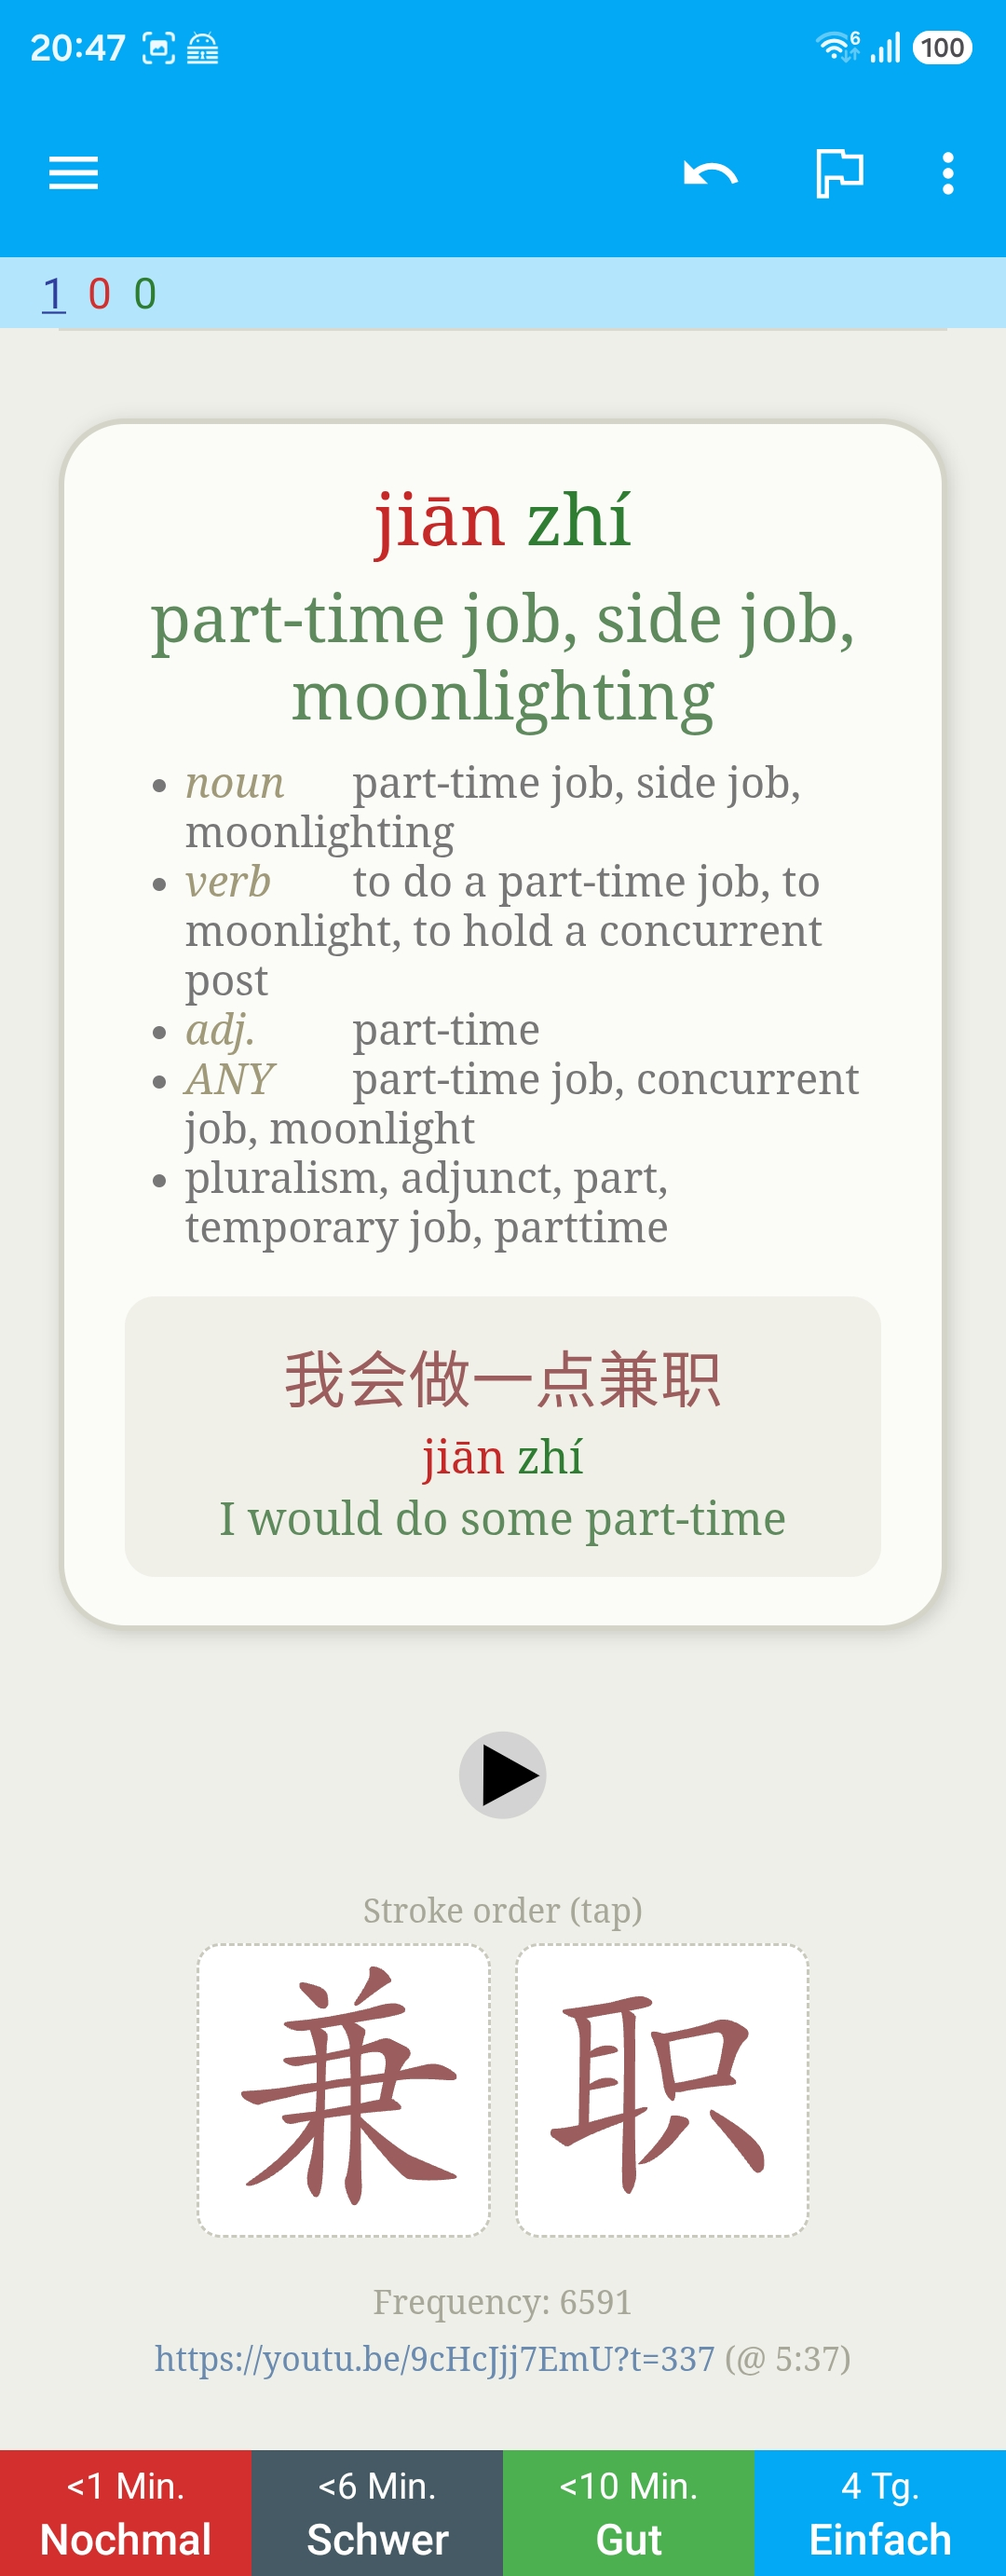
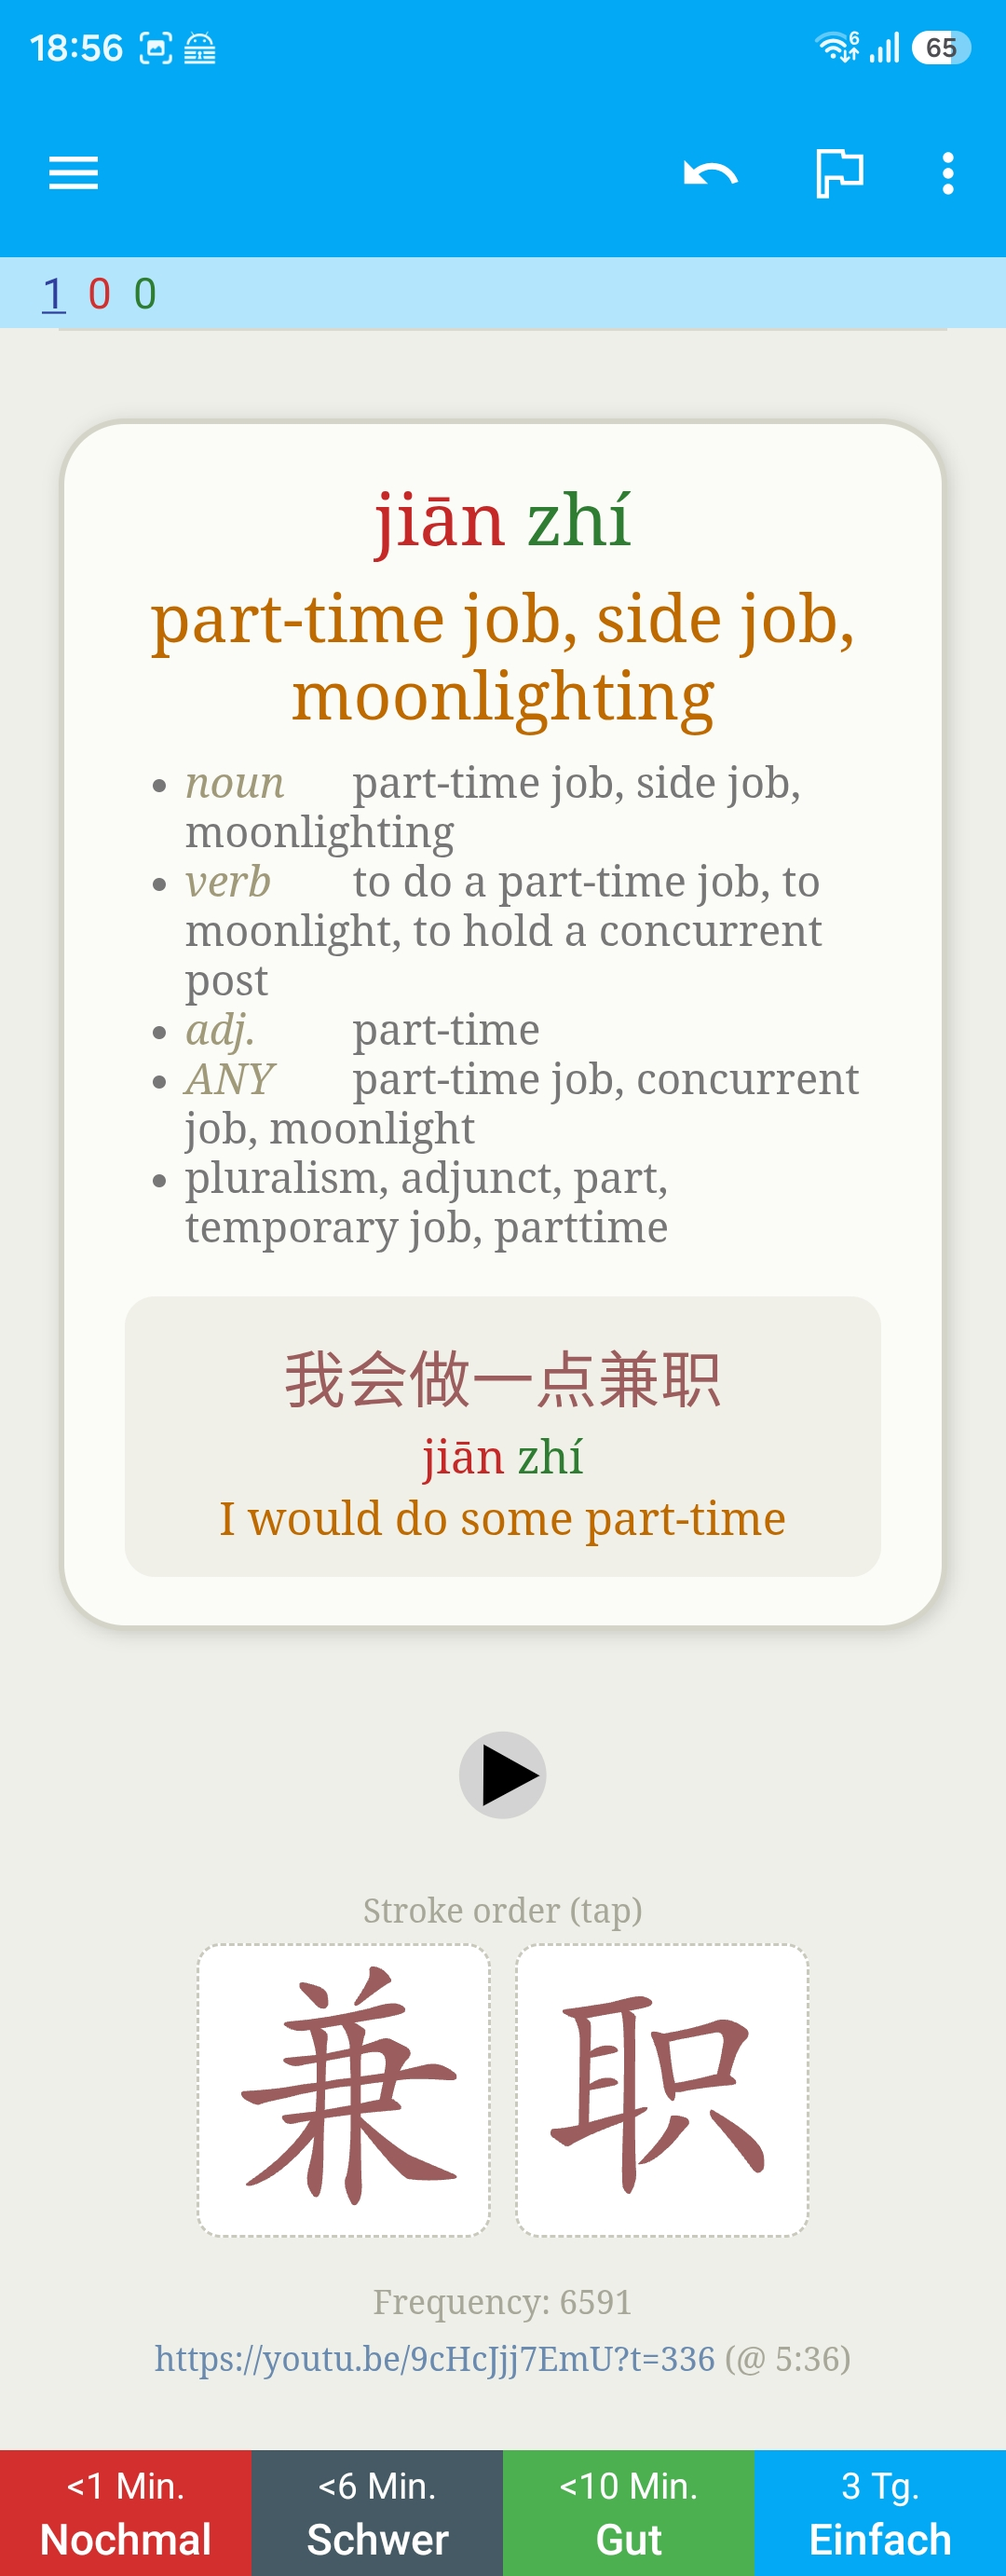
Fix zero-width sentence split; distinct translation color (v1.1.1) (#6)
* Fix zero-width spaces in sentence split; distinct translation color (v1.1.1)

Two user-facing fixes bundled as a patch release:

- Sentence field split: Language Reactor injects zero-width characters
  (U+200B..U+200F, U+2060, U+FEFF) between syllables. They do not match
  \s, so a Pinyin syllable picked up an invisible prefix, failed the
  Pinyin check, and cut the Pinyin/translation split short - spilling the
  rest of the Pinyin plus the translation into SentencePinyin. New
  stripInvisible() removes these characters before tokenization, wired
  into keepHanzi/keepPinyin/splitPinyinTranslation/cleanTranslation and
  the extraction's text normalizer. Covered by two new unit tests.

- Card styling: the translation/meaning color was green, too close to the
  Pinyin tone-2 green (a worldwide-standard tone scheme). Changed to amber
  (#bf6a00 light / #e0a35a dark) for .bedeutung, .bedeutung-prompt and
  .satz-trans, clearly distinct in both light and dark mode.

Also refreshes the documentation screenshots to the new amber styling.

* Keep U+FEFF for \s normalization instead of deleting it

Address Copilot review: U+FEFF (BOM / zero-width no-break space) already
matches JavaScript's \s. stripInvisible() deleted it before the \s+
normalization, which could merge tokens that previously split on it
(e.g. "shìIch" -> "shìIch"). Remove U+FEFF from stripInvisible's
delete set so the existing \s+ normalization turns it into a space; the
[…]

diff --git a/src/lib/sanitize.ts b/src/lib/sanitize.ts
@@ -2,14 +2,29 @@
 // in die Hanzi-/Uebersetzungszeile mischt. Bewusst DOM-frei und ohne Seiteneffekte,
 // damit sie als Unit-Tests pruefbar sind (siehe sanitize.test.ts).
 
+/**
+ * Entfernt unsichtbare Null-Breite-/Steuerzeichen, die LR zwischen die Silben
+ * mischt (U+200B..U+200F Zero-Width/Richtungsmarken, U+2060 Word Joiner). Diese
+ * matchen `\s` NICHT, haengen sich sonst an eine Pinyin-Silbe und zerbrechen die
+ * Tokenisierung (die Silbe gilt dann nicht mehr als Pinyin).
+ *
+ * U+FEFF (BOM/Zero-Width No-Break Space) wird bewusst NICHT geloescht: es ist in
+ * JavaScript bereits Teil von `\s` und wirkt damit als Token-Trenner. Wuerde man
+ * es loeschen, klebten umliegende Tokens zusammen ("sh\u00EC\uFEFFIch" -> "sh\u00ECIch").
+ * Die nachgelagerte `\s+`-Normalisierung macht daraus wie gehabt ein Leerzeichen.
+ */
+export function stripInvisible(s: string): string {
+  return s.replace(/[\u200B-\u200F\u2060]/g, '');
+}
+
 /** Behaelt nur CJK-Ideogramme und CJK-/Vollbreiten-Satzzeichen. */
 export function keepHanzi(s: string): string {
-  return s.replace(/[^㐀-鿿　-〿＀-￯]/g, '').trim();
+  return stripInvisible(s).replace(/[^㐀-鿿　-〿＀-￯]/g, '').trim();
 }
 
 /** Entfernt CJK-Zeichen (laesst Latein/Pinyin/Toene stehen). */
 export function keepPinyin(s: string): string {
-  return s
+  return stripInvisible(s)
     .replace(/[㐀-鿿　-〿＀-￯]/g, '')
     .replace(/\s+/g, ' ')
     .trim();
@@ -36,7 +51,10 @@ export function splitPinyinTranslation(
   line: string,
   hanziCount: number,
 ): { pinyin: string; translation: string } {
-  const cleaned = line.replace(/\s+/g, ' ').trim().replace(/^[㐀-鿿　-〿＀-￯\s]+/u, '');
+  const cleaned = stripInvisible(line)
+    .replace(/\s+/g, ' ')
+    .trim()
+    .replace(/^[㐀-鿿　-〿＀-￯\s]+/u, '');
   const words = cleaned.split(' ').filter(Boolean);
   const cap = hanziCount > 0 ? hanziCount : words.length;
   let n = 0;
@@ -50,7 +68,7 @@ export function splitPinyinTranslation(
 
 /** Schneidet fuehrende CJK und fuehrende Pinyin-Silben (die des Satzes) ab. */
 export function cleanTranslation(raw: string, pinyin: string): string {
-  let t = raw.replace(/\s+/g, ' ').trim();
+  let t = stripInvisible(raw).replace(/\s+/g, ' ').trim();
   t = t.replace(/^[㐀-鿿　-〿＀-￯\s]+/, '');
   const py = new Set(pinyin.split(/\s+/).filter(Boolean));
   if (py.size) {

diff --git a/src/lib/sanitize.test.ts b/src/lib/sanitize.test.ts
@@ -6,7 +6,13 @@ import {
   keepPinyin,
   looksLikePinyin,
   splitPinyinTranslation,
+  stripInvisible,
 } from './sanitize';
+
+// Zero-width space LR mixes between syllables (it does not match \s).
+const ZWSP = String.fromCharCode(0x200b); // U+200B ZERO WIDTH SPACE
+// BOM / zero-width no-break space - this one DOES match \s in JavaScript.
+const BOM = String.fromCharCode(0xfeff); // U+FEFF
 
 describe('keepHanzi', () => {
   it('removes latin/pinyin, keeps only Hanzi', () => {
@@ -76,6 +82,31 @@ describe('splitPinyinTranslation', () => {
     const r = splitPinyinTranslation('wǒ shì Something', 0);
     expect(r.pinyin).toBe('wǒ shì');
     expect(r.translation).toBe('Something');
+  });
+  it('splits correctly when LR glues zero-width spaces onto a syllable', () => {
+    // Regression: U+200B before "zi" used to make the 9th syllable fail the
+    // pinyin check, cutting the split short and spilling pinyin into German.
+    const line = `hái zi yǒu le zì jǐ de hái ${ZWSP}${ZWSP}${ZWSP}${ZWSP}zi de shí hòu Wenn das Kind selbst ein Kind hat`;
+    const r = splitPinyinTranslation(line, 12);
+    expect(r.pinyin).toBe('hái zi yǒu le zì jǐ de hái zi de shí hòu');
+    expect(r.translation).toBe('Wenn das Kind selbst ein Kind hat');
+  });
+  it('treats U+FEFF as a separator, not a character to delete', () => {
+    // Regression: U+FEFF matches \s in JS, so it must stay and be normalized to a
+    // space (keeping tokens apart) rather than be stripped (which would merge them).
+    const r = splitPinyinTranslation(`wǒ shì${BOM}Ich bin ein Neuling.`, 2);
+    expect(r.pinyin).toBe('wǒ shì');
+    expect(r.translation).toBe('Ich bin ein Neuling.');
+  });
+});
+
+describe('stripInvisible', () => {
+  it('removes zero-width characters but keeps normal text', () => {
+    expect(stripInvisible(`hái${ZWSP}${ZWSP}zi`)).toBe('háizi');
+    expect(stripInvisible('hái zi')).toBe('hái zi');
+  });
+  it('does NOT remove U+FEFF (it is whitespace, handled by \\s normalization)', () => {
+    expect(stripInvisible(`shì${BOM}Ich`)).toBe(`shì${BOM}Ich`);
   });
 });
 

diff --git a/src/lib/anki/model.ts b/src/lib/anki/model.ts
@@ -168,10 +168,10 @@ h1, h2, h3, h4, p { font-weight: normal; margin: 0; }
 .pinyin { font-size: 24px; color: #5c5c99; margin: 4px 0; }
 .night_mode .pinyin { color: #a6a6ec; }
 
-.bedeutung { font-size: 22px; color: #5e8a5e; margin: 6px 0; }
-.night_mode .bedeutung { color: #9bd49b; }
-.bedeutung-prompt { font-size: 30px; color: #5e8a5e; margin: 28px 0; }
-.night_mode .bedeutung-prompt { color: #9bd49b; }
+.bedeutung { font-size: 22px; color: #bf6a00; margin: 6px 0; }
+.night_mode .bedeutung { color: #e0a35a; }
+.bedeutung-prompt { font-size: 30px; color: #bf6a00; margin: 28px 0; }
+.night_mode .bedeutung-prompt { color: #e0a35a; }
 
 .hint-line { margin: 12px 0; }
 a.hint { color: #9a9a4d; text-decoration: none; font-size: 20px; }
@@ -232,8 +232,8 @@ a.hint { color: #9a9a4d; text-decoration: none; font-size: 20px; }
 .night_mode .satz-hanzi { color: #e39a9a; }
 .satz-pinyin { font-size: 15px; color: #5c5c99; }
 .night_mode .satz-pinyin { color: #a6a6ec; }
-.satz-trans { font-size: 15px; color: #5e8a5e; margin-top: 3px; }
-.night_mode .satz-trans { color: #9bd49b; }
+.satz-trans { font-size: 15px; color: #bf6a00; margin-top: 3px; }
+.night_mode .satz-trans { color: #e0a35a; }
 
 .frequenz { font-size: 11px; color: #a8a89a; margin-bottom: 6px; }
 

diff --git a/src/lib/extract.ts b/src/lib/extract.ts
@@ -5,12 +5,14 @@ import {
   keepHanzi,
   keepPinyin,
   splitPinyinTranslation,
+  stripInvisible,
 } from './sanitize';
 import type { Meaning, Sentence, VideoSource, VocabCard } from './types';
 
-/** textContent, Mehrfach-Whitespace zu einem Space normalisiert, getrimmt. */
+/** textContent, unsichtbare Zero-Width-Zeichen entfernt, Mehrfach-Whitespace zu
+ *  einem Space normalisiert, getrimmt. */
 function txt(el: Element | null | undefined): string {
-  return (el?.textContent ?? '').replace(/\s+/g, ' ').trim();
+  return stripInvisible(el?.textContent ?? '').replace(/\s+/g, ' ').trim();
 }
 
 /** Nur die direkten Textknoten eines Elements (ohne Kinder), ohne Whitespace. */
@@ -19,7 +21,7 @@ function directText(el: Element): string {
   el.childNodes.forEach((n) => {
     if (n.nodeType === Node.TEXT_NODE) s += n.textContent ?? '';
   });
-  return s.replace(/\s+/g, '').trim();
+  return stripInvisible(s).replace(/\s+/g, '').trim();
 }
 
 /** Hanzi aus einem data-word-key wie "WORD|新手|zh-CN". */

diff --git a/DEVELOPER.md b/DEVELOPER.md
@@ -95,3 +95,18 @@ python tools/make_icon.py public/icon
 ```
 
 WXT picks them up automatically and writes the manifest `icons` entries.
+
+## Releasing
+
+Releases are automated. The only manual step is the version bump, done in a normal PR:
+
+1. In a feature/release branch, bump the version: `npm version <x.y.z> --no-git-tag-version`
+   (this edits `package.json` and `package-lock.json`; do **not** let it create a git tag).
+2. Open a PR and get it merged into `main` (CI must be green; `main` is protected).
+3. On merge, the `Release` workflow (`.github/workflows/release.yml`) reads the version from
+   `package.json`, builds and zips the extension, and - if no release for that version exists yet -
+   creates the GitHub Release `v<x.y.z>` with the `…-chrome.zip` asset and auto-generated notes. The
+   tag is created on the merged commit, so the published asset always matches the tagged code.
+
+The workflow is idempotent: pushes to `main` that do not introduce a new version are skipped, so no
+manual tagging, zipping or `gh release` steps are needed.
